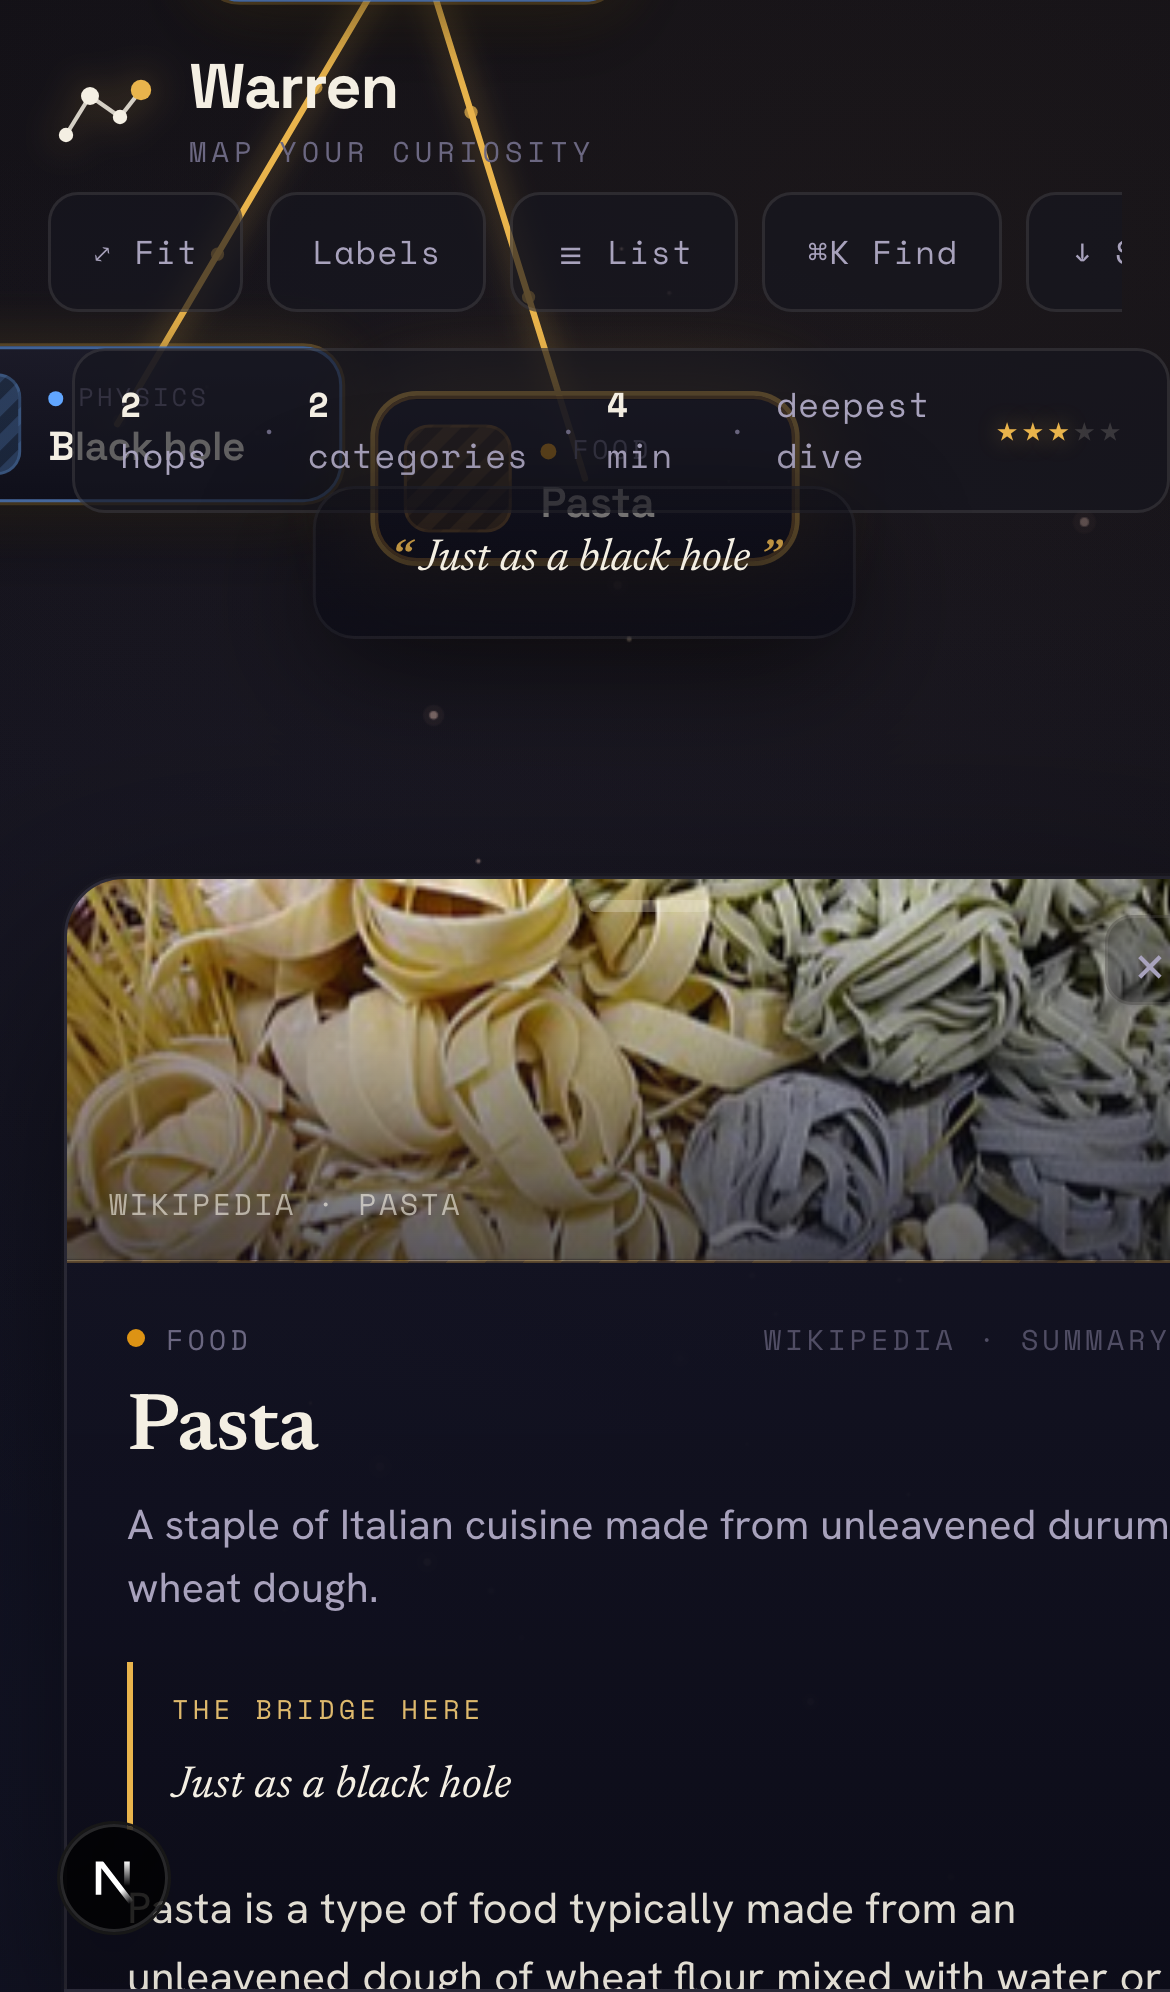
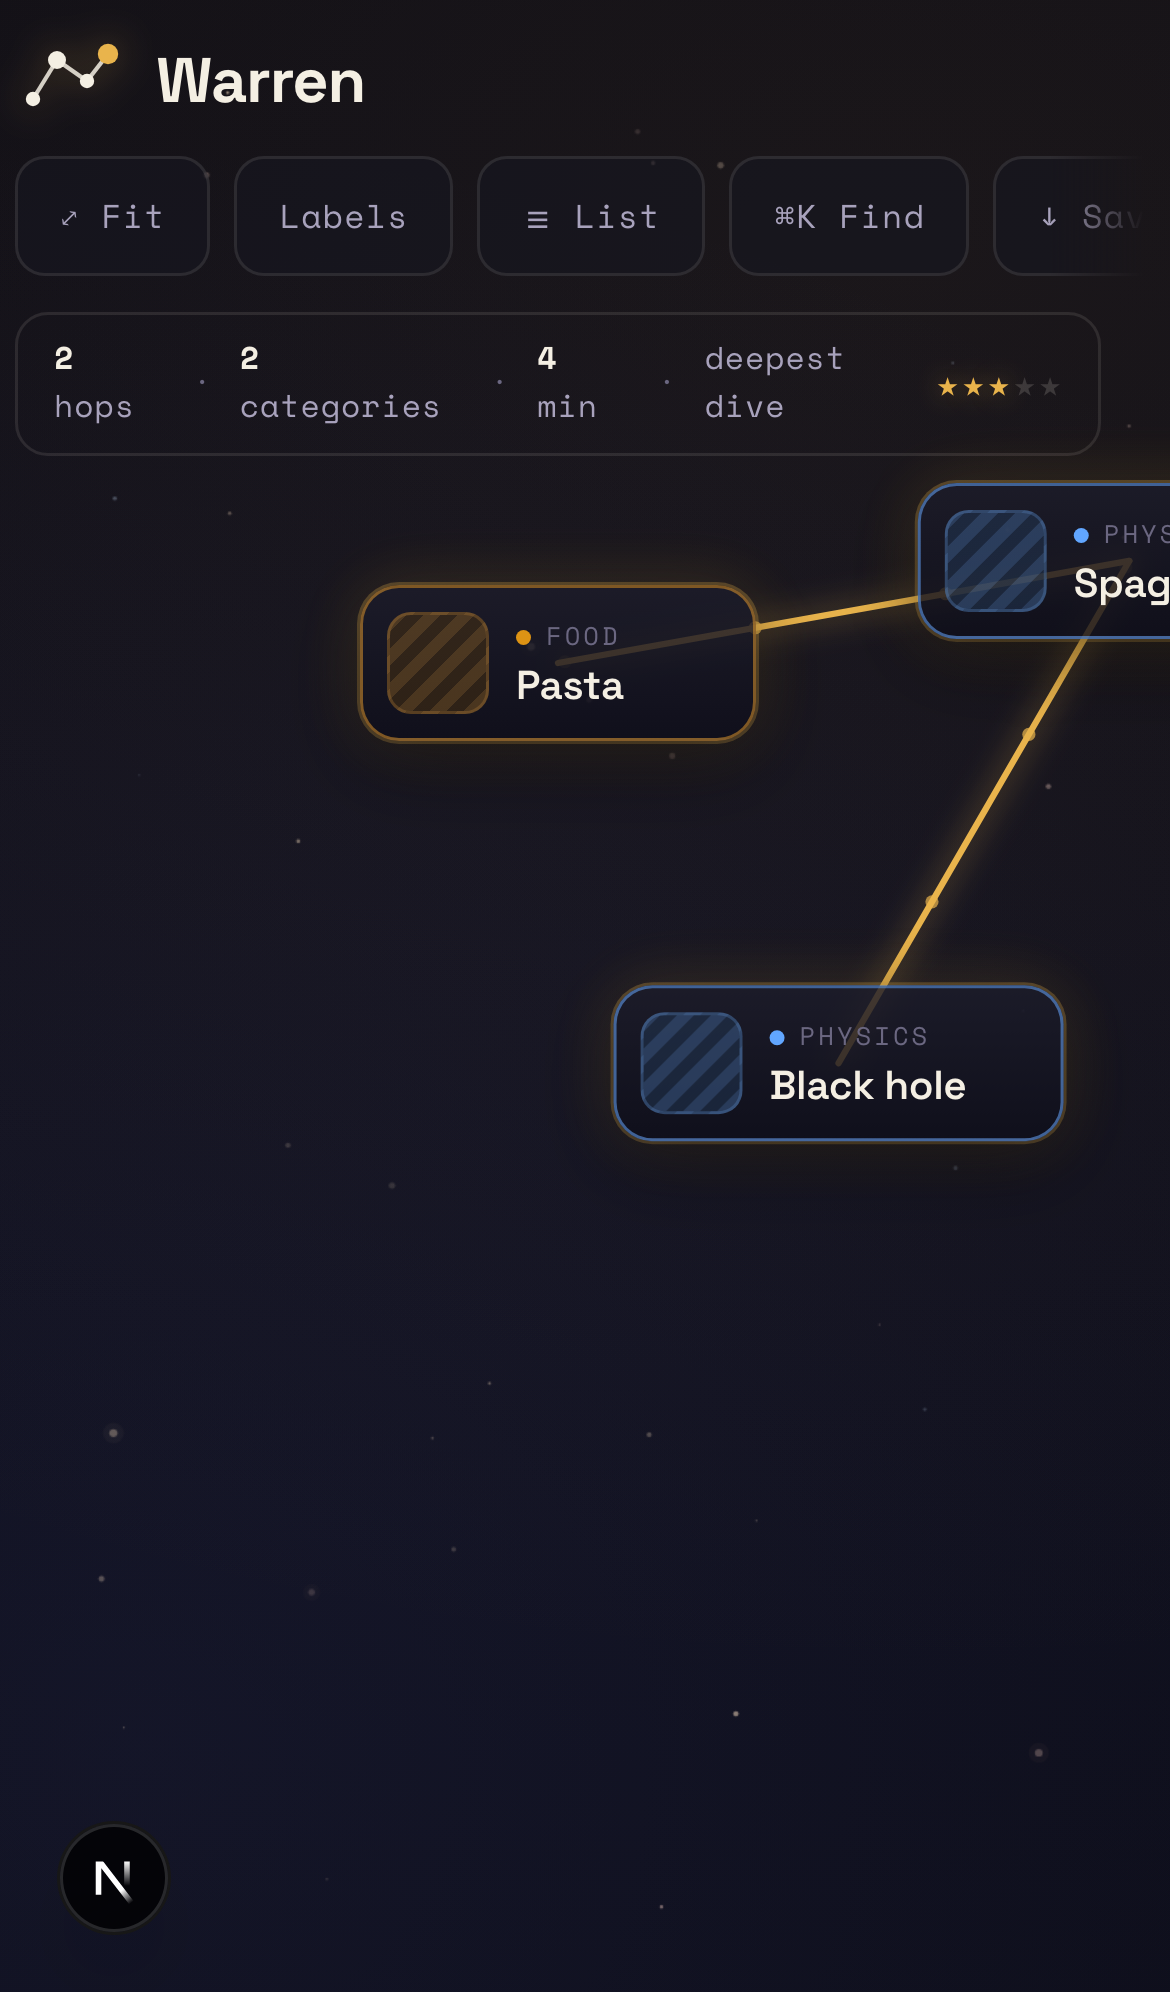
Fix mobile layout (z-index scale + reserveTop, no HUD overlap) and rank live links by relevance/pageviews

diff --git a/src/lib/wikipedia/client.ts b/src/lib/wikipedia/client.ts
@@ -116,51 +116,108 @@ const NON_ARTICLE_PREFIX = /^(File|Image|Help|Category|Template|Wikipedia|Portal
 const LOW_VALUE_TITLE =
   /(\b(Inc|Ltd|LLC|GmbH|Co|Corporation|Company)\b\.?$)|(\bS\.p\.A\.?$)|(^List of )|(^Index of )|(\((company|disambiguation)\))|(^\d{3,4}$)|(^[A-Z]+ \d)|(English$)/i;
 
-/** The next jumps a reader can burrow into. Prefers Wikipedia's curated "related" pages
-    (genuinely relevant, not alphabetical noise), falling back to in-article links when
-    related is empty. Main namespace only, house-keeping filtered. */
+/** The next jumps a reader can burrow into, ranked by RELEVANCE (not alphabetically):
+      1. Wikipedia's curated "related" pages (best signal when present),
+      2. links that appear in the article's own summary extract (the lead-section links —
+         the most relevant on-ramps a reader actually meets first),
+      3. remaining in-article links.
+    Main namespace only, house-keeping + low-value stubs filtered. */
 export async function getArticleLinks(title: string, limit = 40): Promise<BlueLink[]> {
   return cached(`wiki:links:${title}:${limit}`, LINKS_TTL, async () => {
-    const dedupe = (titles: string[]): BlueLink[] => {
-      const seen = new Set<string>();
-      const out: BlueLink[] = [];
+    const seen = new Set<string>();
+    const out: BlueLink[] = [];
+    const push = (titles: string[]) => {
       for (const t of titles) {
+        if (out.length >= limit) break;
         if (!t || NON_ARTICLE_PREFIX.test(t) || LOW_VALUE_TITLE.test(t) || seen.has(t)) continue;
         seen.add(t);
         out.push({ title: t });
-        if (out.length >= limit) break;
       }
-      return out;
     };
 
-    // 1) Curated related pages (high quality).
-    const related = await getRelated(title);
-    const relatedLinks = dedupe(related.pages.map((p) => p.title));
-    if (relatedLinks.length >= Math.min(6, limit)) return relatedLinks;
+    // Fetch curated related pages, the summary (for extract-ranking), and in-article links
+    // together. Each is independently cached + concurrency-limited.
+    const [related, summary, inTextRaw] = await Promise.all([
+      getRelated(title),
+      getPageSummary(title).catch(() => null),
+      (async () => {
+        const params = new URLSearchParams({
+          action: "query",
+          format: "json",
+          prop: "links",
+          titles: title,
+          plnamespace: "0",
+          pllimit: String(Math.min(limit * 6, 500)),
+          redirects: "1",
+          origin: "*",
+        });
+        const res = await wikiFetch(`${ACTION_BASE}?${params.toString()}`, { revalidate: LINKS_TTL });
+        if (!res.ok) {
+          discard(res);
+          return [] as string[];
+        }
+        const data = (await res.json()) as {
+          query?: { pages?: Record<string, { links?: { title: string }[] }> };
+        };
+        const pages = data.query?.pages ?? {};
+        return Object.values(pages).flatMap((p) => (p.links ?? []).map((l) => l.title));
+      })(),
+    ]);
 
-    // 2) Fall back to (or top up with) the article's in-text links.
+    // 1) curated related
+    push(related.pages.map((p) => p.title));
+
+    // 2) in-text links that the extract actually mentions (lead-section = most relevant)
+    const extract = (summary?.extract ?? "").toLowerCase();
+    if (extract) {
+      push(inTextRaw.filter((t) => extract.includes(t.toLowerCase())));
+    }
+
+    // 3) the rest, ranked by pageview popularity (prominent articles >> obscure stubs),
+    //    which replaces the API's useless alphabetical order with a real relevance signal.
+    if (out.length < limit) {
+      const remaining = inTextRaw.filter(
+        (t) => !seen.has(t) && !NON_ARTICLE_PREFIX.test(t) && !LOW_VALUE_TITLE.test(t),
+      );
+      const ranked = await rankByPageviews(Array.from(new Set(remaining)));
+      push(ranked);
+    }
+
+    return out;
+  });
+}
+
+/** Order candidate titles by recent pageview volume (descending). Popular articles are a
+    strong proxy for relevance/prominence; obscure stubs sink. Batches to respect API
+    limits and falls back to the input order if the request fails. */
+async function rankByPageviews(titles: string[]): Promise<string[]> {
+  if (titles.length <= 1) return titles;
+  // The pageviews prop accepts up to 50 titles per query; cap the candidate pool.
+  const pool = titles.slice(0, 150);
+  const views = new Map<string, number>();
+  for (let i = 0; i < pool.length; i += 50) {
+    const batch = pool.slice(i, i + 50);
     const params = new URLSearchParams({
       action: "query",
       format: "json",
-      prop: "links",
-      titles: title,
-      plnamespace: "0",
-      pllimit: String(Math.min(limit * 4, 500)),
+      prop: "pageviews",
+      titles: batch.join("|"),
+      pvipdays: "30",
       redirects: "1",
       origin: "*",
     });
-    const res = await wikiFetch(`${ACTION_BASE}?${params.toString()}`, {
-      revalidate: LINKS_TTL,
-    });
+    const res = await wikiFetch(`${ACTION_BASE}?${params.toString()}`, { revalidate: LINKS_TTL });
     if (!res.ok) {
       discard(res);
-      return relatedLinks;
+      continue;
     }
     const data = (await res.json()) as {
-      query?: { pages?: Record<string, { links?: { title: string }[] }> };
+      query?: { pages?: Record<string, { title: string; pageviews?: Record<string, number | null> }> };
     };
-    const pages = data.query?.pages ?? {};
-    const inText = Object.values(pages).flatMap((p) => (p.links ?? []).map((l) => l.title));
-    return dedupe([...relatedLinks.map((l) => l.title), ...inText]);
-  });
+    for (const p of Object.values(data.query?.pages ?? {})) {
+      const total = Object.values(p.pageviews ?? {}).reduce<number>((s, v) => s + (v ?? 0), 0);
+      views.set(p.title, total);
+    }
+  }
+  return [...pool].sort((a, b) => (views.get(b) ?? 0) - (views.get(a) ?? 0));
 }

diff --git a/src/app/explore.module.css b/src/app/explore.module.css
@@ -233,7 +233,7 @@
   position: absolute;
   top: 22px;
   left: 24px;
-  z-index: 6;
+  z-index: 10;
   display: flex;
   flex-direction: column;
   gap: 16px;
@@ -318,7 +318,7 @@
   position: absolute;
   top: 22px;
   right: 24px;
-  z-index: 6;
+  z-index: 10;
   display: flex;
   align-items: center;
   gap: 8px;
@@ -375,7 +375,7 @@
   position: absolute;
   left: 24px;
   bottom: 66px;
-  z-index: 6;
+  z-index: 10;
   display: flex;
   align-items: center;
   flex-wrap: wrap;
@@ -433,7 +433,7 @@
   position: absolute;
   left: 24px;
   bottom: 24px;
-  z-index: 6;
+  z-index: 10;
   display: flex;
   align-items: center;
   gap: 9px;
@@ -479,7 +479,7 @@
   left: 50%;
   bottom: 120px;
   /* horizontal centering (x: -50%) + fade handled by motion (see ExploreMap) */
-  z-index: 6;
+  z-index: 10;
   max-width: min(56ch, 72vw);
   text-align: center;
   font-family: var(--font-serif);
@@ -510,7 +510,7 @@
   top: 50%;
   right: 24px;
   /* vertical centering + enter/exit handled by motion (see BurrowCard) */
-  z-index: 7;
+  z-index: 40;
   width: min(380px, 38vw);
   max-height: min(78vh, 720px);
   display: flex;
@@ -982,55 +982,49 @@
 }
 
 /* ---------- responsive ---------- */
+/* ---------- mobile ----------
+   The bottom-sheet burrow owns the lower half, so the HUD lives in a tidy top band:
+   brand (row 1) → scrollable controls (row 2) → stat strip (row 3), each on its own line
+   with no overlap. The graph sits beneath (z-index scale: graph 1 < HUD 10 < sheet 40). */
 @media (max-width: 880px) {
-  .burrow {
-    top: auto;
-    bottom: 0;
-    right: 0;
-    left: 0;
-    width: 100%;
-    max-width: none;
-    max-height: 56vh;
-    border-radius: 20px 20px 0 0;
-  }
+  /* brand: compact, top-left, single row */
   .header {
-    max-width: 60vw;
+    top: 12px;
+    left: 14px;
+    right: 14px;
+    max-width: none;
+    gap: 0;
   }
-  .titlecard {
+  .titlecard,
+  .spineRail,
+  .brandTag {
     display: none;
   }
-  .spineRail {
+  .ctlHint {
     display: none;
   }
-  .statStrip {
-    bottom: auto;
-    top: 74px;
-    left: 24px;
-  }
-  .subtitle {
-    bottom: auto;
-    top: 120px;
-    font-size: 15px;
-  }
-  /* tighten the control cluster so it doesn't crowd the brand on phones */
-  /* controls become a horizontally-scrollable strip below the brand so nothing clips */
+
+  /* controls: full-width horizontally-scrollable strip on its own row */
   .controls {
-    top: 64px;
-    left: 16px;
-    right: 16px;
+    top: 52px;
+    left: 0;
+    right: 0;
+    padding: 0 14px 4px;
     gap: 8px;
     flex-wrap: nowrap;
+    justify-content: flex-start;
     overflow-x: auto;
     scrollbar-width: none;
     -webkit-overflow-scrolling: touch;
-    padding-bottom: 2px;
+    -webkit-mask-image: linear-gradient(90deg, #000 92%, transparent);
+    mask-image: linear-gradient(90deg, #000 92%, transparent);
   }
   .controls::-webkit-scrollbar {
     display: none;
   }
   .ctl {
     flex: none;
-    min-height: 40px; /* comfortable touch target */
+    min-height: 40px;
     display: inline-flex;
     align-items: center;
     padding: 8px 14px;
@@ -1039,19 +1033,41 @@
     width: 32px;
     height: 32px;
   }
-  .ctlHint {
+
+  /* stat strip: its own row below the controls, compact */
+  .statStrip {
+    top: 104px;
+    left: 14px;
+    right: 14px;
+    bottom: auto;
+    width: max-content;
+    max-width: calc(100% - 28px);
+    font-size: 10.5px;
+    padding: 7px 12px;
+  }
+
+  /* the floating subtitle is redundant on mobile (the bridge shows inside the burrow
+     card) and was the main thing colliding with the graph — hide it */
+  .subtitle {
     display: none;
   }
-  .header {
-    top: 18px;
-    left: 16px;
+
+  /* bottom-sheet burrow — capped so it never reaches up into the HUD band */
+  .burrow {
+    top: auto;
+    bottom: 0;
+    right: 0;
+    left: 0;
+    width: 100%;
+    max-width: none;
+    max-height: 62vh;
+    border-radius: 20px 20px 0 0;
   }
-  /* stat strip sits below the controls strip on mobile */
+  /* push the graph's framing down a touch so settled nodes avoid the top HUD band;
+     handled in JS via reserveTop — this just keeps the strip readable over the graph */
+  .controls,
   .statStrip {
-    top: 116px;
-  }
-  .subtitle {
-    top: 162px;
+    background: transparent;
   }
 }
 

diff --git a/src/components/explore/ForceGraph.tsx b/src/components/explore/ForceGraph.tsx
@@ -325,8 +325,9 @@ export default function ForceGraph(props: ForceGraphProps) {
     c.tzoom = opts?.zoom || Math.min(1.15, Math.max(c.zoom, 0.95));
     const rr = propsRef.current.reserveRight || 0;
     const rb = propsRef.current.reserveBottom || 0;
+    const rt = propsRef.current.reserveTop || 0;
     c.tx = (w - rr) / 2 - p.x * c.tzoom;
-    c.ty = (h - rb) / 2 - p.y * c.tzoom;
+    c.ty = rt + (h - rt - rb) / 2 - p.y * c.tzoom;
   }
 
   function fitToView() {
@@ -347,8 +348,9 @@ export default function ForceGraph(props: ForceGraphProps) {
     const h = vp ? vp.clientHeight : 800;
     const rr = propsRef.current.reserveRight || 0;
     const rb = propsRef.current.reserveBottom || 0;
+    const rt = propsRef.current.reserveTop || 0;
     const availW = w - rr;
-    const availH = h - rb;
+    const availH = h - rt - rb;
     const pad = 220;
     const bw = maxX - minX + pad;
     const bh = maxY - minY + pad;
@@ -356,7 +358,7 @@ export default function ForceGraph(props: ForceGraphProps) {
     const c = cam.current;
     c.tzoom = z;
     c.tx = availW / 2 - ((minX + maxX) / 2) * z;
-    c.ty = availH / 2 - ((minY + maxY) / 2) * z;
+    c.ty = rt + availH / 2 - ((minY + maxY) / 2) * z;
   }
 
   // ---- render frame ----

diff --git a/src/components/explore/ExploreMap.tsx b/src/components/explore/ExploreMap.tsx
@@ -298,9 +298,12 @@ export default function ExploreMap() {
 
   const isMobile = viewportW < MOBILE_BP;
   const reserveRight = selArticle && !isMobile ? 412 : 0;
+  // On mobile, keep the graph framed below the top HUD band (brand + controls + stats)
+  // and above the bottom-sheet burrow so nodes never settle behind the chrome.
+  const reserveTop = isMobile ? 150 : 0;
   const reserveBottom =
     selArticle && isMobile
-      ? Math.round((typeof window !== "undefined" ? window.innerHeight : 700) * 0.52)
+      ? Math.round((typeof window !== "undefined" ? window.innerHeight : 700) * 0.56)
       : 0;
 
   const handleExport = useCallback(() => {
@@ -375,6 +378,7 @@ export default function ExploreMap() {
         dimmed={!!selArticle}
         reserveRight={reserveRight}
         reserveBottom={reserveBottom}
+        reserveTop={reserveTop}
         onSelect={handleSelect}
         onReady={handleReady}
       />

diff --git a/src/components/explore/types.ts b/src/components/explore/types.ts
@@ -47,6 +47,8 @@ export type GraphEngineProps = {
   reserveRight: number;
   /** px to reserve at the bottom for the mobile burrow bottom-sheet */
   reserveBottom: number;
+  /** px to reserve at the top for the mobile HUD band (brand + controls + stats) */
+  reserveTop: number;
   onSelect: (id: string) => void;
   onReady: (api: GraphApi) => void;
 };

diff --git a/src/components/explore/ReplayMap.tsx b/src/components/explore/ReplayMap.tsx
@@ -84,6 +84,7 @@ export default function ReplayMap({ warren }: { warren: SavedWarren }) {
         dimmed={false}
         reserveRight={0}
         reserveBottom={0}
+        reserveTop={0}
         onSelect={() => {}}
         onReady={(api) => {
           apiRef.current = api;